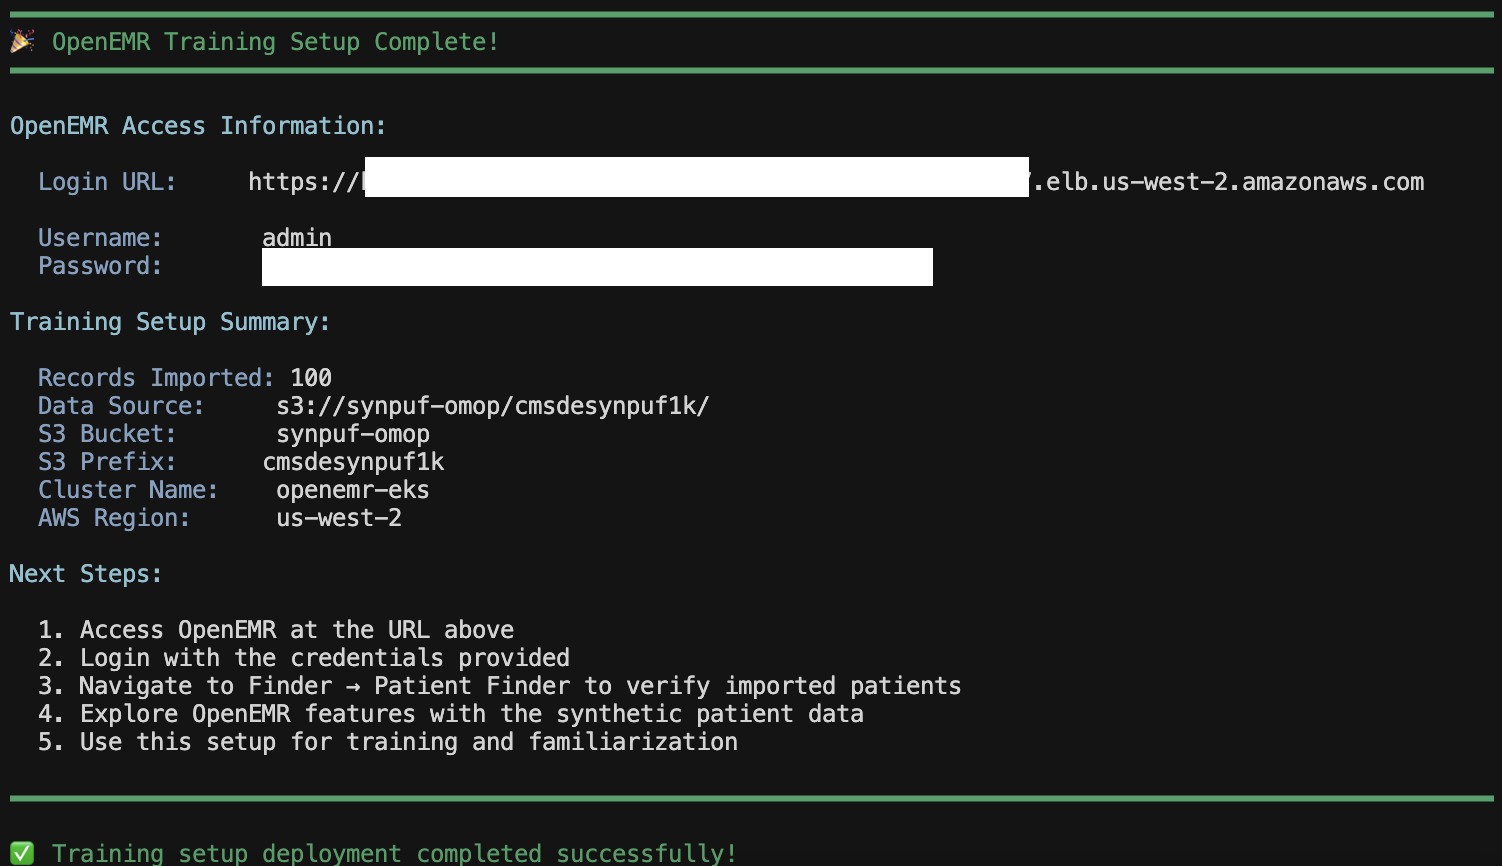
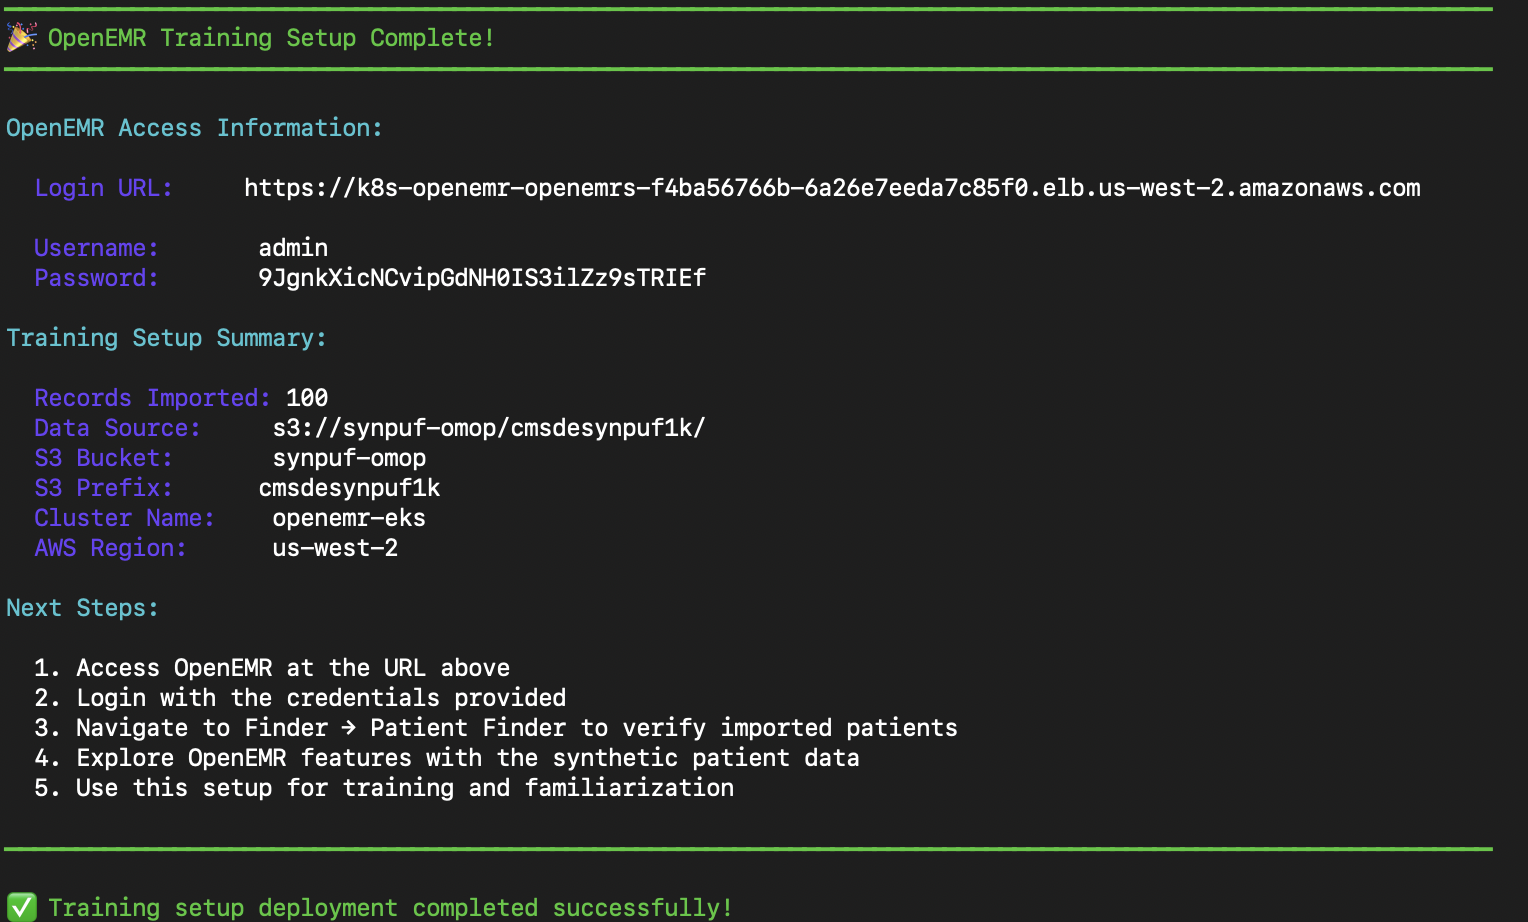
patch v4.3.1: minor updates to documentation (#30)
Adds new documentation images and updates the main README and the README in the "images" directory.

diff --git a/images/README.md b/images/README.md
@@ -10,11 +10,19 @@ This directory contains visual assets and branding materials for the OpenEMR on 
 
 ### **📄 File Documentation**
 - [File Descriptions](#file-descriptions)
-  - [Project Logo (`openemr_on_eks_logo.png`)](#project-logo-openemr_on_eks_logopng)
-  - [GitHub Banner (`openemr_on_eks_github_banner.png`)](#github-banner-openemr_on_eks_github_bannerpng)
-  - [Quick Deploy Screenshot (`quick-deploy.png`)](#quick-deploy-screenshot-quick-deploypng)
   - [Deploy Training Setup Screenshot (`deploy-training-setup.png`)](#deploy-training-setup-screenshot-deploy-training-setuppng)
+  - [Deploy Training Setup OpenEMR Login (`deploy-training-setup-openemr-login.png`)](#deploy-training-setup-openemr-login-deploy-training-setup-openemr-loginpng)
+  - [Deploy Training Setup Patient Finder (`deploy-training-setup-patient-finder.png`)](#deploy-training-setup-patient-finder-deploy-training-setup-patient-finderpng)
+  - [Deploy Training Setup Warp Data Upload (`deploy-training-setup-warp-data-upload.png`)](#deploy-training-setup-warp-data-upload-deploy-training-setup-warp-data-uploadpng)
   - [Destroy Screenshot (`destroy.png`)](#destroy-screenshot-destroypng)
+  - [GitHub Banner (`openemr_on_eks_github_banner.png`)](#github-banner-openemr_on_eks_github_bannerpng)
+  - [Grafana Login Screenshot (`quick-deploy-grafana-login.png`)](#grafana-login-screenshot-quick-deploy-grafana-loginpng)
+  - [OpenEMR Admin Dashboard Screenshot (`quick-deploy-openemr-admin-landing-page.png`)](#openemr-admin-dashboard-screenshot-quick-deploy-openemr-admin-landing-pagepng)
+  - [OpenEMR Grafana Dashboard Screenshot (`quick-deploy-openemr-grafana.png`)](#openemr-grafana-dashboard-screenshot-quick-deploy-openemr-grafanapng)
+  - [OpenEMR Grafana Datasources (`quick-deploy-openemr-grafana-datasources.png`)](#openemr-grafana-datasources-quick-deploy-openemr-grafana-datasourcespng)
+  - [OpenEMR Login Screenshot (`quick-deploy-openemr-login.png`)](#openemr-login-screenshot-quick-deploy-openemr-loginpng)
+  - [Project Logo (`openemr_on_eks_logo.png`)](#project-logo-openemr_on_eks_logopng)
+  - [Quick Deploy Screenshot (`quick-deploy.png`)](#quick-deploy-screenshot-quick-deploypng)
 - [Setting GitHub Social Banner](#setting-github-social-banner)
   - [What is a GitHub Social Banner?](#what-is-a-github-social-banner)
   - [Why Set a Social Banner?](#why-set-a-social-banner)
@@ -61,34 +69,21 @@ This directory contains visual assets and branding materials for the OpenEMR on 
 
 ### **Visual Assets**
 
-- **`openemr_on_eks_logo.png`** - Main project logo for documentation and branding (optimized for web)
-- **`openemr_on_eks_github_banner.png`** - GitHub repository banner for social media and repository display
-- **`quick-deploy.png`** - Screenshot demonstrating the quick deployment script workflow
 - **`deploy-training-setup.png`** - Screenshot showing the training environment setup process
+- **`deploy-training-setup-openemr-login.png`** - Screenshot showing the OpenEMR login page with newly generated admin credentials
+- **`deploy-training-setup-patient-finder.png`** - Screenshot showing synthetic patients in OpenEMR's Patient Finder
+- **`deploy-training-setup-warp-data-upload.png`** - Screenshot showing Warp uploading 100 synthetic patients in less than 1 minute
 - **`destroy.png`** - Screenshot showing successful infrastructure destruction
+- **`openemr_on_eks_github_banner.png`** - GitHub repository banner for social media and repository display
+- **`openemr_on_eks_logo.png`** - Main project logo for documentation and branding (optimized for web)
+- **`quick-deploy-grafana-login.png`** - Screenshot showing the Grafana login page after deployment
+- **`quick-deploy-openemr-grafana-datasources.png`** - Screenshot showing 5 integrated datasources for dashboarding and alerting
+- **`quick-deploy-openemr-admin-landing-page.png`** - Screenshot showing the OpenEMR admin dashboard landing page
+- **`quick-deploy-openemr-grafana.png`** - Screenshot showing OpenEMR monitoring dashboard in Grafana
+- **`quick-deploy-openemr-login.png`** - Screenshot showing the OpenEMR login page after deployment
+- **`quick-deploy.png`** - Screenshot demonstrating the quick deployment script workflow
 
 ## File Descriptions
-
-### **Project Logo (`openemr_on_eks_logo.png`)**
-
-- **Purpose**: Primary project logo used in documentation, README files, and branding materials
-- **Format**: PNG image optimized for web display with transparency support
-- **Usage**: Embedded in main README below the project title
-- **Dimensions**: Optimized for various display sizes and contexts (<500KB file size for fast loading)
-
-### **GitHub Banner (`openemr_on_eks_github_banner.png`)**
-
-- **Purpose**: Social media banner for GitHub repository display
-- **Format**: PNG image with transparency support
-- **Usage**: Repository banner, social media sharing, and promotional materials
-- **Dimensions**: Optimized for GitHub's banner display requirements
-
-### **Quick Deploy Screenshot (`quick-deploy.png`)**
-
-- **Purpose**: Visual demonstration of the quick deployment script (`scripts/quick-deploy.sh`) in action
-- **Format**: PNG screenshot
-- **Usage**: Documentation and README files to show the quick deployment workflow
-- **Context**: Illustrates the streamlined deployment process for getting OpenEMR running on EKS quickly
 
 ### **Deploy Training Setup Screenshot (`deploy-training-setup.png`)**
 
@@ -97,12 +92,89 @@ This directory contains visual assets and branding materials for the OpenEMR on 
 - **Usage**: Documentation and README files to show the training setup workflow
 - **Context**: Illustrates the process for deploying OpenEMR training environments with pre-configured settings
 
+### **Deploy Training Setup OpenEMR Login (`deploy-training-setup-openemr-login.png`)**
+
+- **Purpose**: Visual demonstration of accessing the OpenEMR application after training setup deployment
+- **Format**: PNG screenshot
+- **Usage**: Documentation and README files to show the OpenEMR login interface with newly generated admin credentials
+- **Context**: Shows users what to expect when accessing OpenEMR after the training setup deployment
+
+### **Deploy Training Setup Patient Finder (`deploy-training-setup-patient-finder.png`)**
+
+- **Purpose**: Visual demonstration of verifying synthetic patient uploads in OpenEMR's Patient Finder
+- **Format**: PNG screenshot
+- **Usage**: Documentation and README files to show how to verify uploaded synthetic patients
+- **Context**: Illustrates navigating to "Finder" → "Patient Finder" to see uploaded synthetic patients
+
+### **Deploy Training Setup Warp Data Upload (`deploy-training-setup-warp-data-upload.png`)**
+
+- **Purpose**: Visual demonstration of Warp uploading synthetic patient data
+- **Format**: PNG screenshot
+- **Usage**: Documentation and README files to show the speed of Warp data uploads
+- **Context**: Shows Warp uploading 100 synthetic patients in less than 1 minute
+
 ### **Destroy Screenshot (`destroy.png`)**
 
 - **Purpose**: Visual demonstration of successful infrastructure destruction using the destroy script (`scripts/destroy.sh`)
 - **Format**: PNG screenshot
 - **Usage**: Documentation and README files to show the cleanup workflow
 - **Context**: Illustrates the complete infrastructure destruction process with the "DESTRUCTION COMPLETE!" success message
+
+### **GitHub Banner (`openemr_on_eks_github_banner.png`)**
+
+- **Purpose**: Social media banner for GitHub repository display
+- **Format**: PNG image with transparency support
+- **Usage**: Repository banner, social media sharing, and promotional materials
+- **Dimensions**: Optimized for GitHub's banner display requirements
+
+### **Grafana Login Screenshot (`quick-deploy-grafana-login.png`)**
+
+- **Purpose**: Visual demonstration of accessing the Grafana monitoring interface after deployment
+- **Format**: PNG screenshot
+- **Usage**: Documentation and README files to show the Grafana login page
+- **Context**: Shows users how to access the monitoring stack that comes with the quick deployment
+
+### **OpenEMR Admin Dashboard Screenshot (`quick-deploy-openemr-admin-landing-page.png`)**
+
+- **Purpose**: Visual demonstration of the OpenEMR admin dashboard landing page
+- **Format**: PNG screenshot
+- **Usage**: Documentation and README files to show the admin interface after login
+- **Context**: Illustrates the admin dashboard that users will see after logging into OpenEMR
+
+### **OpenEMR Grafana Dashboard Screenshot (`quick-deploy-openemr-grafana.png`)**
+
+- **Purpose**: Visual demonstration of monitoring OpenEMR in the Grafana dashboard
+- **Format**: PNG screenshot
+- **Usage**: Documentation and README files to show the monitoring capabilities
+- **Context**: Illustrates the pre-configured Grafana dashboard that monitors OpenEMR deployment metrics and health
+
+### **OpenEMR Grafana Datasources (`quick-deploy-openemr-grafana-datasources.png`)**
+
+- **Purpose**: Visual demonstration of the 5 integrated datasources available in the monitoring stack
+- **Format**: PNG screenshot
+- **Usage**: Documentation and README files to show datasource configuration
+- **Context**: Illustrates the comprehensive datasources available for dashboarding and alerting
+
+### **OpenEMR Login Screenshot (`quick-deploy-openemr-login.png`)**
+
+- **Purpose**: Visual demonstration of accessing the OpenEMR application after successful deployment
+- **Format**: PNG screenshot
+- **Usage**: Documentation and README files to show the OpenEMR login interface
+- **Context**: Shows users what to expect when accessing OpenEMR for the first time after deployment
+
+### **Project Logo (`openemr_on_eks_logo.png`)**
+
+- **Purpose**: Primary project logo used in documentation, README files, and branding materials
+- **Format**: PNG image optimized for web display with transparency support
+- **Usage**: Embedded in main README below the project title
+- **Dimensions**: Optimized for various display sizes and contexts (<500KB file size for fast loading)
+
+### **Quick Deploy Screenshot (`quick-deploy.png`)**
+
+- **Purpose**: Visual demonstration of the quick deployment script (`scripts/quick-deploy.sh`) in action
+- **Format**: PNG screenshot
+- **Usage**: Documentation and README files to show the quick deployment workflow
+- **Context**: Illustrates the streamlined deployment process for getting OpenEMR running on EKS quickly
 
 ## Setting GitHub Social Banner
 

diff --git a/README.md b/README.md
@@ -1,6 +1,6 @@
 <div align="center">
 
-<img src="images/openemr_on_eks_logo.png" alt="OpenEMR on EKS Logo" width="600">
+<img src="images/openemr_on_eks_logo.png" alt="OpenEMR on EKS Logo" width="500">
 
 <!-- Status Badges -->
 [![CI/CD Tests](../../actions/workflows/ci-cd-tests.yml/badge.svg)](../../actions/workflows/ci-cd-tests.yml)
@@ -19,59 +19,128 @@
 > - Regular security audits and risk assessments
 
 > **⚠ End-to-End Test Warning**: The end-to-end test script (`scripts/test-end-to-end-backup-restore.sh`) will create and delete AWS resources (including backup buckets and RDS snapshots) and automatically reset Kubernetes manifests to their default state. **Only run in development AWS accounts** and commit/stash any uncommitted changes to `k8s/` manifests before testing.
-
 ---
 
-## ⚡ Quick Start 
+<div align="center">
 
-**Deploy OpenEMR with a full monitoring stack on EKS in a single command:**
+# 🚀 ⚡ Quick Start ⚡ 🚀
 
-```bash
-# Requires: aws, helm, jq, kubectl, terraform
-# Duration: ~45-60 minutes
-```
+*Deploy OpenEMR on EKS in minutes*
+
+</div> 
+
+## 📊 Deploy OpenEMR with monitoring (~45-60 min.)
 
 ```bash
 ./scripts/quick-deploy.sh
 ```
 
-**What you get:**
+<details>
+<summary><strong>What you get</strong></summary>
+
 - 🌐 OpenEMR URL and admin credentials
 - 📊 Grafana URL and admin credentials  
 - 📈 Full observability stack ready to use
 
-!["Terminal output after running quick-deploy.sh"](./images/quick-deploy.png)
+</details>
 
-**Deploy a training OpenEMR setup with 100 synthetic patients:**
+<details>
+<summary><strong>Terminal Output</strong></summary>
 
-```bash
-# Requires: aws, jq, kubectl, terraform
-# Duration: ~35-50 minutes
-```
+<img src="./images/quick-deploy.png" alt="Terminal output after running quick-deploy.sh" width="500">
+
+</details>
+
+<details>
+<summary><strong>Access OpenEMR</strong></summary>
+
+<img src="./images/quick-deploy-openemr-login.png" alt="OpenEMR login page" width="500">
+
+</details>
+
+<details>
+<summary><strong>OpenEMR Admin Dashboard</strong></summary>
+
+<img src="./images/quick-deploy-openemr-admin-landing-page.png" alt="OpenEMR admin landing page" width="500">
+
+</details>
+
+<details>
+<summary><strong>Access Grafana</strong></summary>
+
+<img src="./images/quick-deploy-grafana-login.png" alt="Grafana login page" width="500">
+
+</details>
+
+<details>
+<summary><strong>Monitor OpenEMR in Grafana</strong></summary>
+
+<img src="./images/quick-deploy-openemr-grafana.png" alt="OpenEMR monitoring dashboard in Grafana" width="500">
+
+</details>
+
+<details>
+<summary><strong>5 Integrated Datasources for Dashboarding/Alerting</strong></summary>
+
+<img src="./images/quick-deploy-openemr-grafana-datasources.png" alt="OpenEMR monitoring dashboard in Grafana" width="500">
+
+</details>
+
+## 👥 Deploy OpenEMR with 100 synthetic patients (~35-50 min.)
 
 ```bash
 ./scripts/deploy-training-openemr-setup.sh --use-default-dataset --max-records 100
 ```
 
-**What you get:**
+<details>
+<summary><strong>What you get</strong></summary>
+
 - 🌐 OpenEMR URL and admin credentials
 - 👥 Number of synthetic patients equal to the argument to "--max-records" (example above would upload 100 synthetic patients)
 - 🛜 Setup populated by synthetic patient data stored in an S3 bucket in OMOP format (default is https://registry.opendata.aws/cmsdesynpuf-omop/)
 
-!["Terminal output after running deploy-training-openemr-setup.sh"](./images/deploy-training-setup.png)
+</details>
 
-**Clean up the deployment with a single command:**
+<details>
+<summary><strong>Warp Uploads 100 Synthetic Patients in <1 minute</strong></summary>
 
-```bash
-# Requires: aws, kubectl, terraform
-# Duration: ~15-20 minutes
-```
+<img src="./images/deploy-training-setup-warp-data-upload.png" alt="Warp uploading 100 patients in <1 min." width="500">
+
+</details>
+
+<details>
+<summary><strong>Terminal Output</strong></summary>
+
+<img src="./images/deploy-training-setup.png" alt="Terminal output after running deploy-training-openemr-setup.sh" width="500">
+
+</details>
+
+<details>
+<summary><strong>Access OpenEMR</strong></summary>
+
+<img src="./images/deploy-training-setup-openemr-login.png" alt="OpenEMR login page with newly generated admin credentials" width="500">
+
+</details>
+
+<details>
+<summary><strong>Navigate to "Finder" → "Patient Finder" to see uploaded synthetic patients</strong></summary>
+
+<img src="./images/deploy-training-setup-patient-finder.png" alt="Screenshot showing synthetic patients in OpenEMR's Patient Finder" width="500">
+
+</details>
+
+## 🧹 Cleanup all deployed resources (~15-20 min.)
 
 ```bash
 ./scripts/destroy.sh
 ```
 
-!["Terminal output after running destroy.sh"](./images/destroy.png)
+<details>
+<summary><strong>Terminal Output</strong></summary>
+
+<img src="./images/destroy.png" alt="Terminal output after running destroy.sh" width="500">
+
+</details>
 
 ---
 
